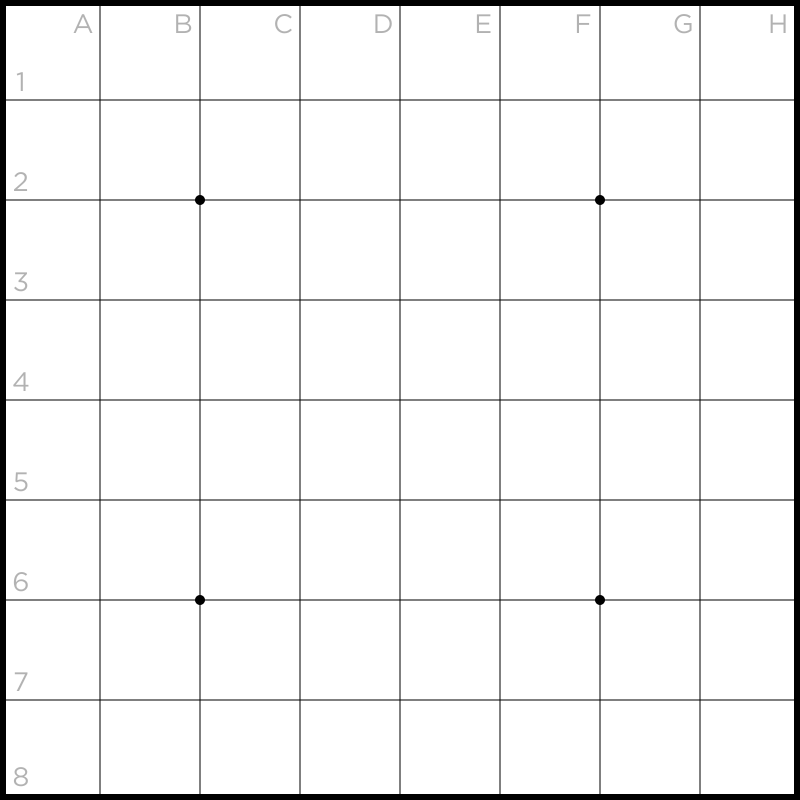
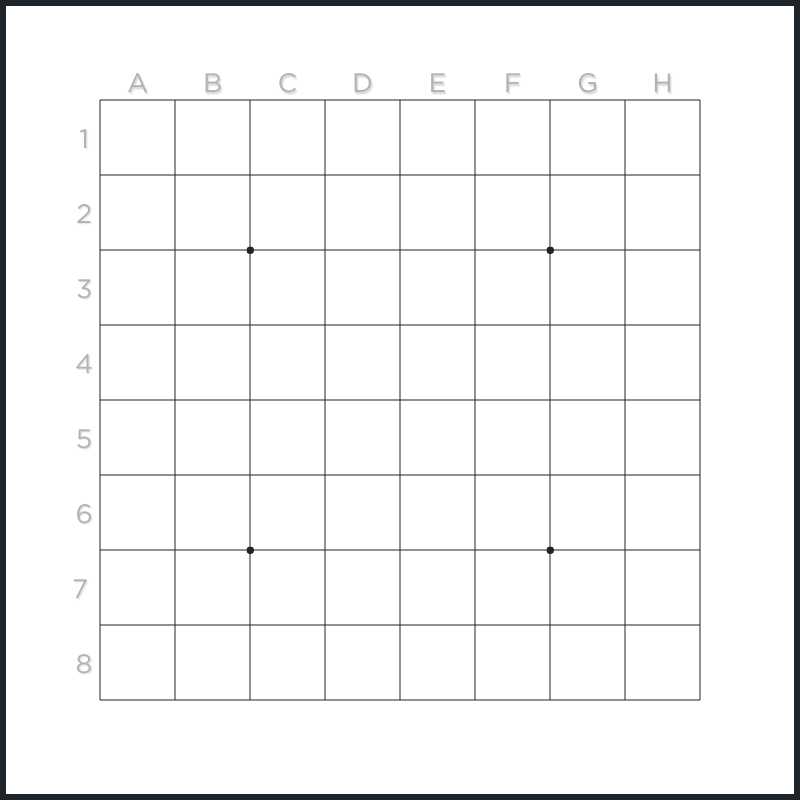
Updating images
Image over image bug is with linux, not in Windows.
Done with new backgrounds and discs.

> Game Logic Next

diff --git a/main.py b/main.py
@@ -1,4 +1,3 @@
-import numpy as np
 import pygame
 from functions import *
 
@@ -10,7 +9,8 @@ pygame.init()
 
 SCREEN_SIZE = 800
 screen = pygame.display.set_mode((SCREEN_SIZE, SCREEN_SIZE))
-screen.fill((255,255,255))
+pygame.display.set_caption("Othello/Reversi")
+
 bBoard = pygame.image.load("images/Othello_Black_Side_Board.png")
 wBoard = pygame.image.load("images/Othello_White_Side_Board.png")
 black_disc = pygame.image.load("images/Black_Disc.png")
@@ -29,15 +29,15 @@ while running:
     for row in range(8):
         for col in range(8):
             if game_board.board[row, col] == 1:
-                x = 100 * col + 5
-                y = 100 * row + 5
-                # screen.blit(black_disc, (x,y))
-                # pygame.display.flip()
+                x = 100 + 75 * col
+                y = 100 + 75 * row
+                screen.blit(black_disc, (x,y))
+                pygame.display.flip()
 
             elif game_board.board[row, col] == -1:
-                x = 100 * col + 5
-                y = 100 * row + 5
-                # screen.blit(white_disc, (x,y))
-                # pygame.display.flip()
+                x = 100 + 75 * col
+                y = 100 + 75 * row
+                screen.blit(white_disc, (x,y))
+                pygame.display.flip()
 
 pygame.quit()
